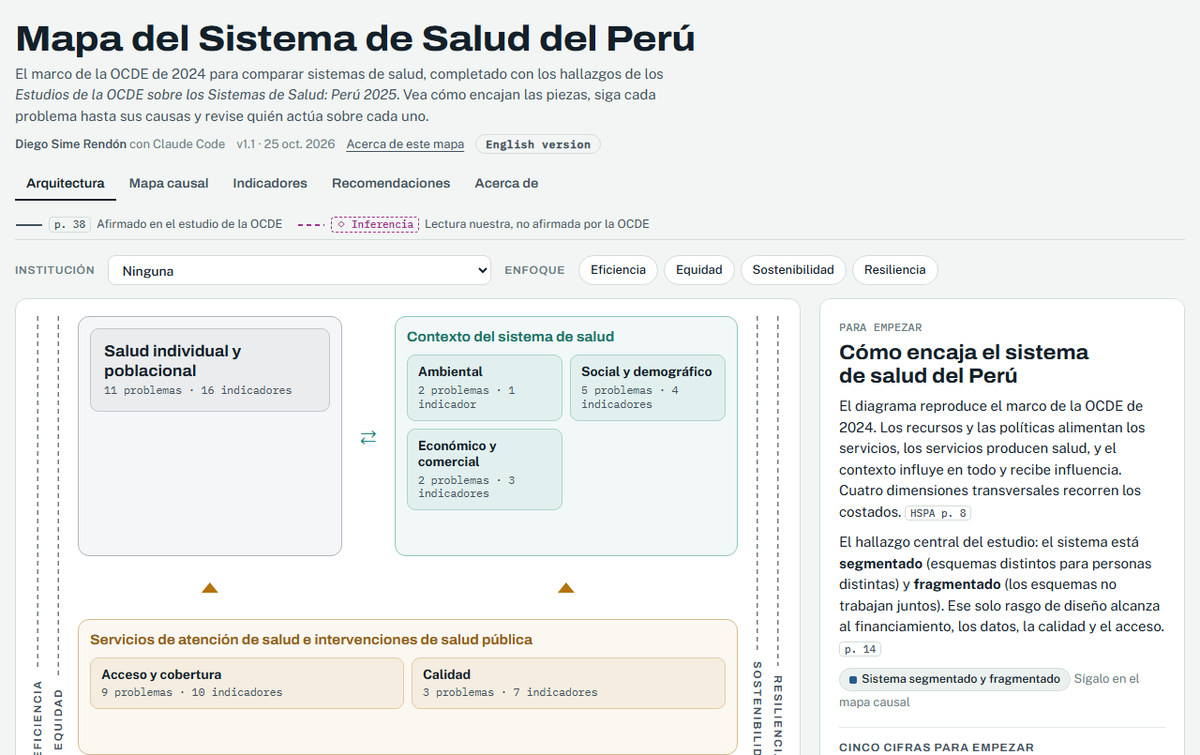
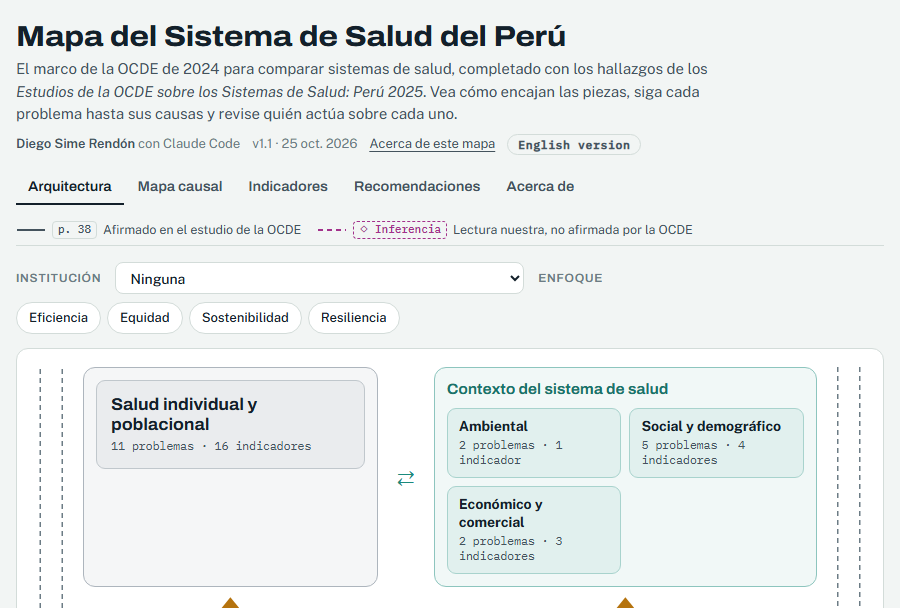
Corrige detalles vistos en la revisión
- Quita la fecha en inglés de las páginas de proyecto
- Da contraste al botón Enlaces del celular
- Deja el pie de página al final, sin tapar el contenido
- Usa una captura más legible del mapa de salud

diff --git a/_sass/layout/_tarjetas.scss b/_sass/layout/_tarjetas.scss
@@ -153,3 +153,23 @@
   border: 1px solid var(--global-border-color);
   border-radius: 8px;
 }
+
+/* Botón «Enlaces» del celular: la plantilla lo deja casi invisible.
+   Antes: gris claro sobre blanco | Después: mismo contraste que los demás botones */
+.author__urls-wrapper button.btn--inverse {
+  min-height: 44px;
+  color: var(--global-text-color) !important;
+  border: 1px solid var(--global-text-color) !important;
+  background: transparent !important;
+}
+
+/* Pie de página: la plantilla lo deja fijo y ocupa pantalla mientras se lee.
+   Antes: siempre visible, encima del contenido | Después: solo aparece al final de la página */
+body {
+  padding-bottom: 0;
+}
+
+.page__footer {
+  position: relative;
+  bottom: auto;
+}

diff --git a/_layouts/single.html b/_layouts/single.html
@@ -38,7 +38,7 @@ layout: default
           <p> {{ page.type }}, <i>{{ page.venue }}</i>, {{ page.date | default: "1900-01-01" | date: "%Y" }} </p>
         {% elsif page.venue and page.date %}
           <p>Published in <i>{{ page.venue }}</i>, {{ page.date | default: "1900-01-01" | date: "%Y" }} </p>
-        {% elsif page.date %}
+        {% elsif page.date and page.collection != 'portfolio' %}
           <p class="page__date"><strong><i class="fa fa-fw fa-calendar" aria-hidden="true"></i> {{ site.data.ui-text[site.locale].date_label | default: "Published:" }}</strong> <time datetime="{{ page.date | date_to_xmlschema }}">{{ page.date | default: "1900-01-01" | date: "%B %d, %Y" }}</time></p>
         {% endif %}    
         </header>

diff --git a/scripts/preparar_imagenes.py b/scripts/preparar_imagenes.py
@@ -66,10 +66,10 @@ for origen, nombre in figuras.items():
     imagen.save(destino / nombre, optimize=True)
     print(nombre, imagen.size)
 
-# --- Paso 5.1.2: Captura del mapa de salud ---
-# crop(): conserva el encabezado y la arquitectura, y deja fuera el círculo cortado de abajo
+# --- Paso 5.1.2: Captura del mapa de salud (tomada a 900 x 640 para que se lea en la tarjeta) ---
 captura = Image.open(sys.argv[1]).convert("RGB")
-captura = limitar_ancho(captura.crop((0, 0, captura.width, 805)))
+# crop(): deja fuera la franja cortada de la parte inferior
+captura = limitar_ancho(captura.crop((0, 0, captura.width, 608)))
 captura.save(destino / "mapa-salud-peru.png", optimize=True)
 print("mapa-salud-peru.png", captura.size)
 
